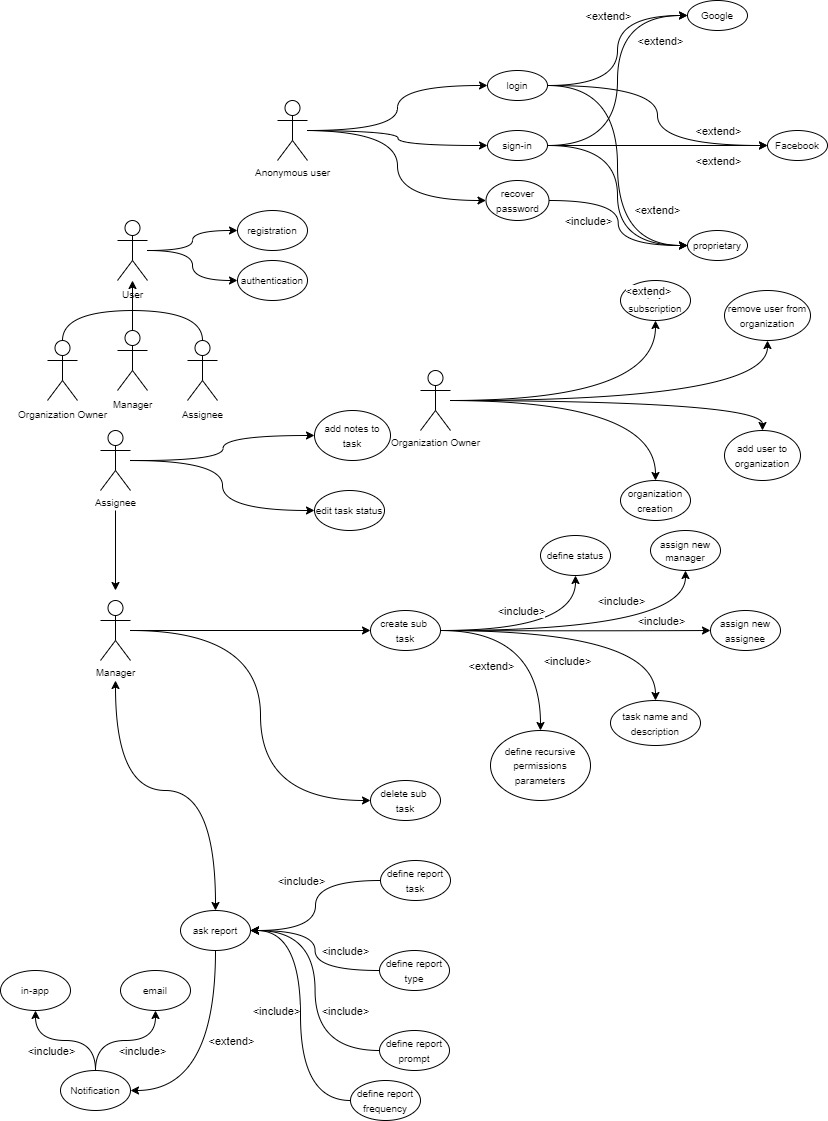
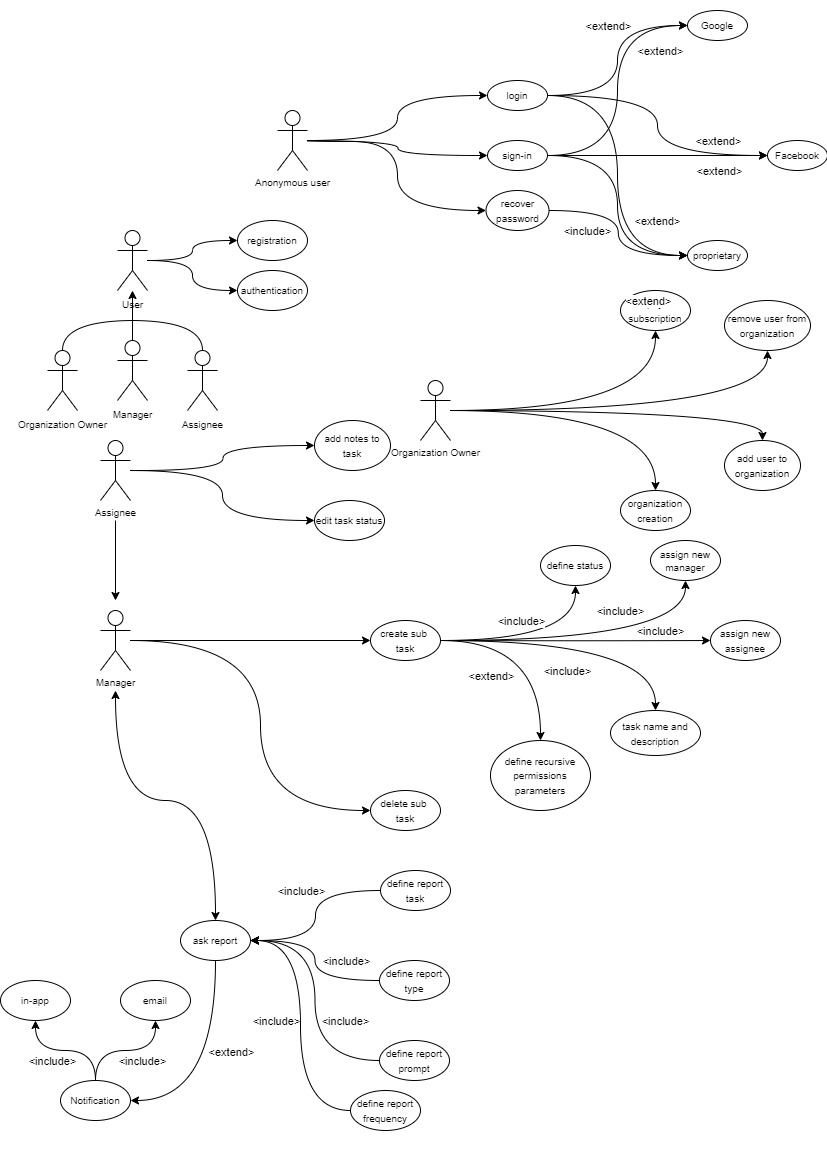
added UseCaseDiagram and functional requirements

diff --git a/deliverable_1/d1.tex b/deliverable_1/d1.tex
@@ -18,11 +18,11 @@
 \subsection{Strengths}
 \begin{itemize}
     \item \textbf{Operating in an market that is hyped and growing: }
-    The Artificial intelligence and LLM (large language models) market is currently on everyone's mouth.
-    and is growing fast\dots this would make it easy for our team to find sell the product, and potentially find investors 
+          The Artificial intelligence and LLM (large language models) market is currently on everyone's mouth.
+          and is growing fast\dots this would make it easy for our team to find sell the product, and potentially find investors
 
     \item \textbf{The workplace is getting more and more digital: }
-    In the last decades more and more jobs are getting used to using 
+          In the last decades more and more jobs are getting used to using
 
     \item \textbf{: }
     \item \textbf{: }
@@ -35,6 +35,20 @@
 
 \subsection{Threads}
 
+\section{Functional Requirements}
+\begin{itemize}
+    \item The system must allow owners for the creation of an Organization
+    \item The system must allow Organizations for assigning tasks for their assignees
+    \item Each task should be capable of having multiple subtasks in a tree structure
+    \item Each task must have at least one manager
+    \item Each task must have at least one assignee
+    \item Each task should have a priority option
+    \item Each task should have a deadline option
+    \item Each task should have a state attribute
+    \item Each task should have a manually managed notes section
+    \item 
+\end{itemize}
+
 \section{Components Diagram}
 
 This section illustrate the component diagram of the system. To improve readability we split the components into several sub
@@ -44,24 +58,24 @@ This helps to quickly identify which component is responsible for a specific int
 \newline \newline
 The list of sub components is the following:
 \begin{itemize}
-    \item \textcolor[HTML]{8CC86E}{\textbf{Data Base Manager: }} This component is responsible for managing the data base, it is an interface between 
-            the data base and the rest of the subsystems. The color assigned to this component is \textcolor[HTML]{8CC86E}{green}.
-    \item \textcolor[HTML]{F0C832}{\textbf{Notification Manager: }} This component is responsible for managing the notifications; 
-    This means sending notification, and serve the data to the front end to visualize the pending notification of a user. The color assigned to this component is \textcolor[HTML]{F0C832}{yellow}.
+    \item \textcolor[HTML]{8CC86E}{\textbf{Data Base Manager: }} This component is responsible for managing the data base, it is an interface between
+          the data base and the rest of the subsystems. The color assigned to this component is \textcolor[HTML]{8CC86E}{green}.
+    \item \textcolor[HTML]{F0C832}{\textbf{Notification Manager: }} This component is responsible for managing the notifications;
+          This means sending notification, and serve the data to the front end to visualize the pending notification of a user. The color assigned to this component is \textcolor[HTML]{F0C832}{yellow}.
     \item \textcolor[HTML]{FF0000}{\textbf{Account Manager: }} This component manage accounts, in particular it handles sign in, log in, account changes and account deletion.
-     The color assigned to this component is \textcolor[HTML]{FF0000}{red}.
-    \item \textcolor[HTML]{64C8BE}{\textbf{LLM Prompter: }} This component is a simple library that provide an interface to prompt different LLMs. It's objective is to make the 
-    implementation of the rest of the system agnostic from the specific LLM used. The color assigned to this component is \textcolor[HTML]{64C8BE}{aqua green}.
+          The color assigned to this component is \textcolor[HTML]{FF0000}{red}.
+    \item \textcolor[HTML]{64C8BE}{\textbf{LLM Prompter: }} This component is a simple library that provide an interface to prompt different LLMs. It's objective is to make the
+          implementation of the rest of the system agnostic from the specific LLM used. The color assigned to this component is \textcolor[HTML]{64C8BE}{aqua green}.
     \item \textcolor[HTML]{A0C8F0}{\textbf{Task Tree Navigator: }} This component is a simple library with some algorithm to navigate a tree data structure.
-    In our specific case the tree represent the tasks and subtasks of an organization. Since this algorithms are used many
-    times throughout the system they have been put in a specific component to make them reusable. The color assigned to this component is \textcolor[HTML]{A0C8F0}{light blue}.
+          In our specific case the tree represent the tasks and subtasks of an organization. Since this algorithms are used many
+          times throughout the system they have been put in a specific component to make them reusable. The color assigned to this component is \textcolor[HTML]{A0C8F0}{light blue}.
     \item \textcolor[HTML]{FA9646}{\textbf{Report Manager: }} This component manage the reports, in particular it is responsible for generating report automatically (using an LLM) or manually (reminding users with a notification that they have to deliver a report).
-    The component also allow users to set report schedule, so that the reports generation can be triggered automatically with a customizable frequency.
-    The color assigned to this component is \textcolor[HTML]{FA9646}{orange}.
-    \item \textcolor[HTML]{FF00FF}{\textbf{Organization Manager: }} This component allow an user to create an organization, or perform some action on his organizations, 
-    like adding/removing a user, or paying the subscription to use the software. The color assigned to this component is \textcolor[HTML]{FF00FF}{purple}.
+          The component also allow users to set report schedule, so that the reports generation can be triggered automatically with a customizable frequency.
+          The color assigned to this component is \textcolor[HTML]{FA9646}{orange}.
+    \item \textcolor[HTML]{FF00FF}{\textbf{Organization Manager: }} This component allow an user to create an organization, or perform some action on his organizations,
+          like adding/removing a user, or paying the subscription to use the software. The color assigned to this component is \textcolor[HTML]{FF00FF}{purple}.
     \item \textcolor[HTML]{2682D5}{\textbf{Task Manager: }} This component allow users to interact with the tasks.
-    In particular it is responsible to visualize, create, delete and edit tasks inside one organization. The color assigned to this component is \textcolor[HTML]{2682D5}{blue}.
+          In particular it is responsible to visualize, create, delete and edit tasks inside one organization. The color assigned to this component is \textcolor[HTML]{2682D5}{blue}.
     \item \textbf{Front End: } This component is responsible for the visualization of the data, and the interaction with the user. This component dose not have a specific color assigned to it, since it dose not provide any interface to other components.
     \item \textcolor[HTML]{E68CB4}{\textbf{External APIs: }} All interfaces provided by external APIs in the system (like authentication, payment, etc.) are painted with the color \textcolor[HTML]{E68CB4}{pink}.
 \end{itemize}
@@ -84,28 +98,28 @@ database (like authentication, api version ecc.)
 The notification manager system has 2 specific tasks:
 \begin{itemize}
     \item Allowing other components to send notification to users.
-    
-        This is done by the ``send notification'' interface
+
+          This is done by the ``send notification'' interface
     \item Allow a user to visualize pending notification in the front end
-    
-        This id done by the other 4 interfaces
+
+          This id done by the other 4 interfaces
 \end{itemize}
 
-    The system is composed of 3 different component
+The system is composed of 3 different component
 \begin{itemize}
-    \item \textbf{Generic Notification Manager: } 
+    \item \textbf{Generic Notification Manager: }
 
-    This component is the one that provided the ``Send Notification'' interface, and it only act as
-    a switch. The system allow for notification to be sent either via mail, or with an in-app notification.
-    When a notification comes in to be send this component will decide where to send it.
-    \item \textbf{External Notification Manager: } 
-    
-    This component will send a mail with a notification to a specific user.
-    This component has various external APIs connected to it, as how the notification is sent will depend on how the user signed In.
-    \item \textbf{Internal Notification Manager: } 
+          This component is the one that provided the ``Send Notification'' interface, and it only act as
+          a switch. The system allow for notification to be sent either via mail, or with an in-app notification.
+          When a notification comes in to be send this component will decide where to send it.
+    \item \textbf{External Notification Manager: }
 
-    This component manage the in-app notifications. It can either be asked to send a notification (in this case it writes it in the database)
-    or it can be asked to get a notification by the front end, so that it can be visualized (in this case it reads the necessary data from the database)
+          This component will send a mail with a notification to a specific user.
+          This component has various external APIs connected to it, as how the notification is sent will depend on how the user signed In.
+    \item \textbf{Internal Notification Manager: }
+
+          This component manage the in-app notifications. It can either be asked to send a notification (in this case it writes it in the database)
+          or it can be asked to get a notification by the front end, so that it can be visualized (in this case it reads the necessary data from the database)
 
 \end{itemize}
 
@@ -119,15 +133,15 @@ The specific implementation depends on how the user signed in. For this reason t
 that will decide which specific implementation to use for each specific user. Once this is decided the user
 can be handled by one of the 3 components:
 \begin{itemize}
-    \item \textbf{Google User Manager: } 
-    
-    This component will handle all the user that signed in with a google account.
-    \item \textbf{Facebook User Manager: } 
-    
-    This component will handle all the user that signed in with a facebook account.
-    \item \textbf{Custom User Manager: } 
-    
-    This component will handle all the user that register with an email and password.
+    \item \textbf{Google User Manager: }
+
+          This component will handle all the user that signed in with a google account.
+    \item \textbf{Facebook User Manager: }
+
+          This component will handle all the user that signed in with a facebook account.
+    \item \textbf{Custom User Manager: }
+
+          This component will handle all the user that register with an email and password.
 \end{itemize}
 Note that we have bundled the database interfaces for managing users into one single interface to enhance readability.
 \subsection{LLM Prompter}
@@ -158,5 +172,10 @@ This component provide some library useful to navigate the task tree. For exampl
 \subsubsection{Diatgram}
 \includegraphics[width=\textwidth,height=\textheight,keepaspectratio]{images/component_diagram/front_end.jpg}
 \subsubsection{Descriptions}
+
+\section{Use Case Diagram}
+
+\includegraphics[width=\textwidth,height=\textheight,keepaspectratio]{images/UseCaseDiagram.jpg}
+
 
 \end{document}
